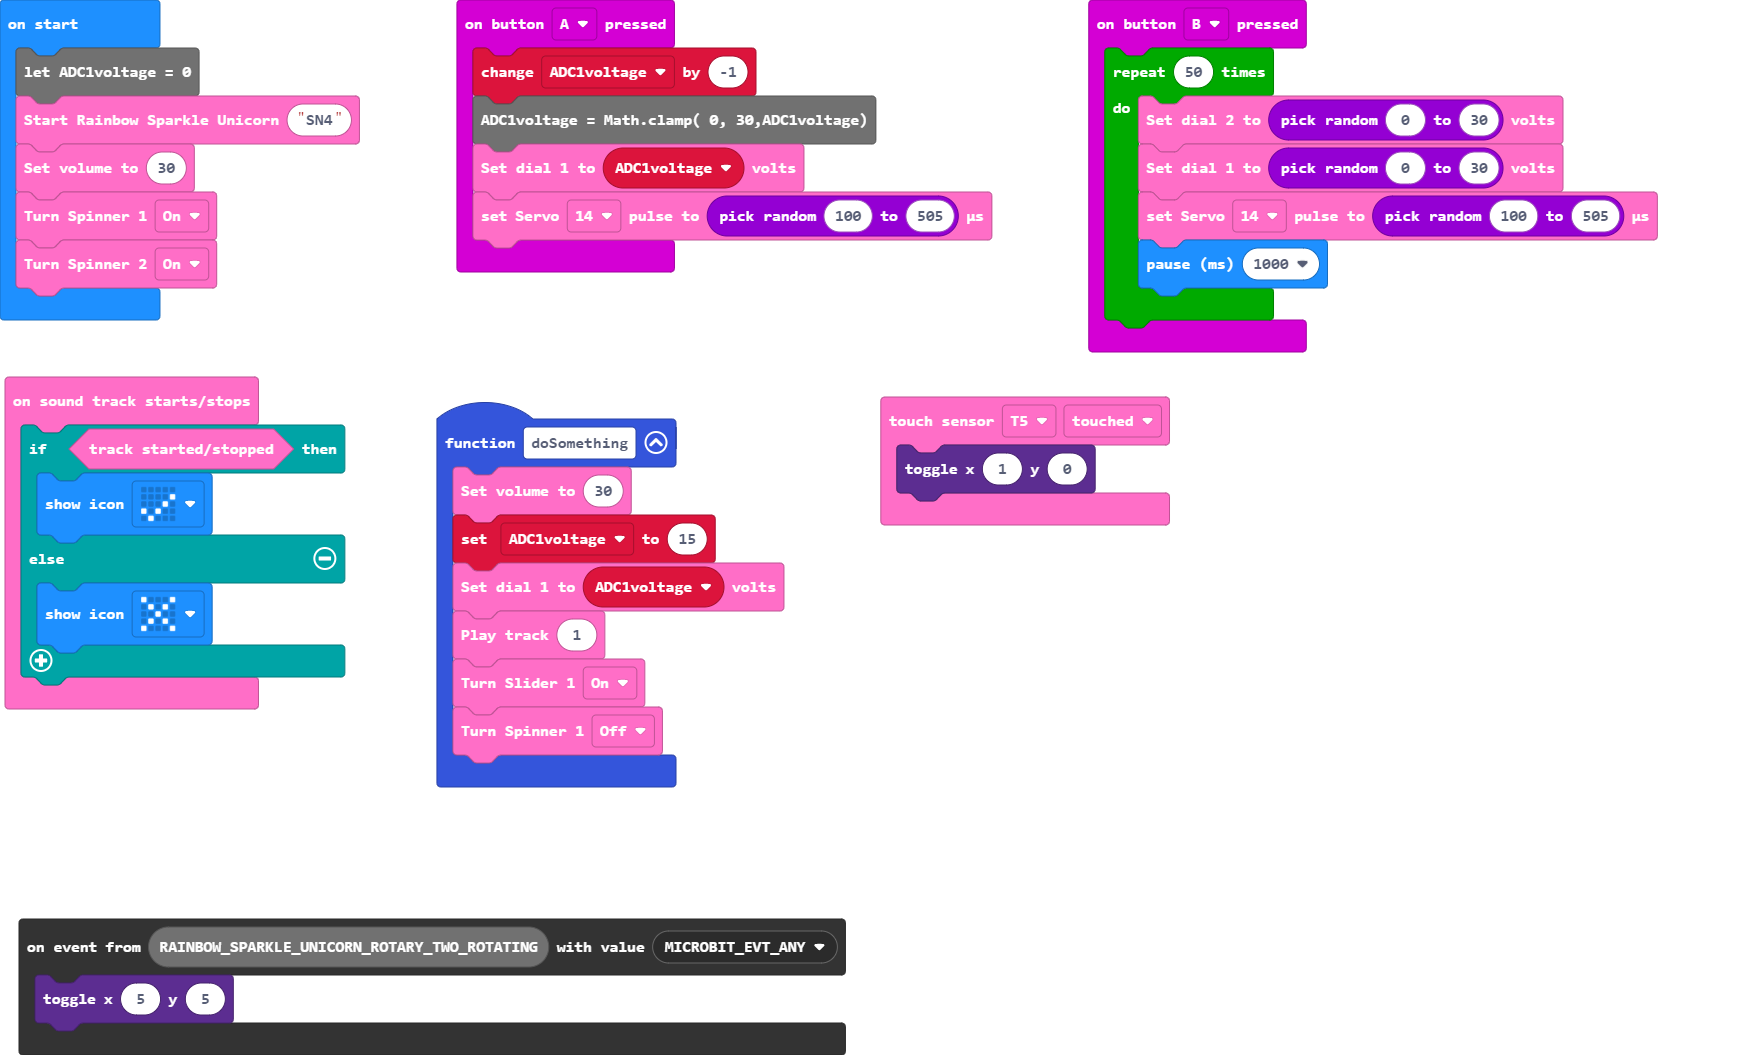
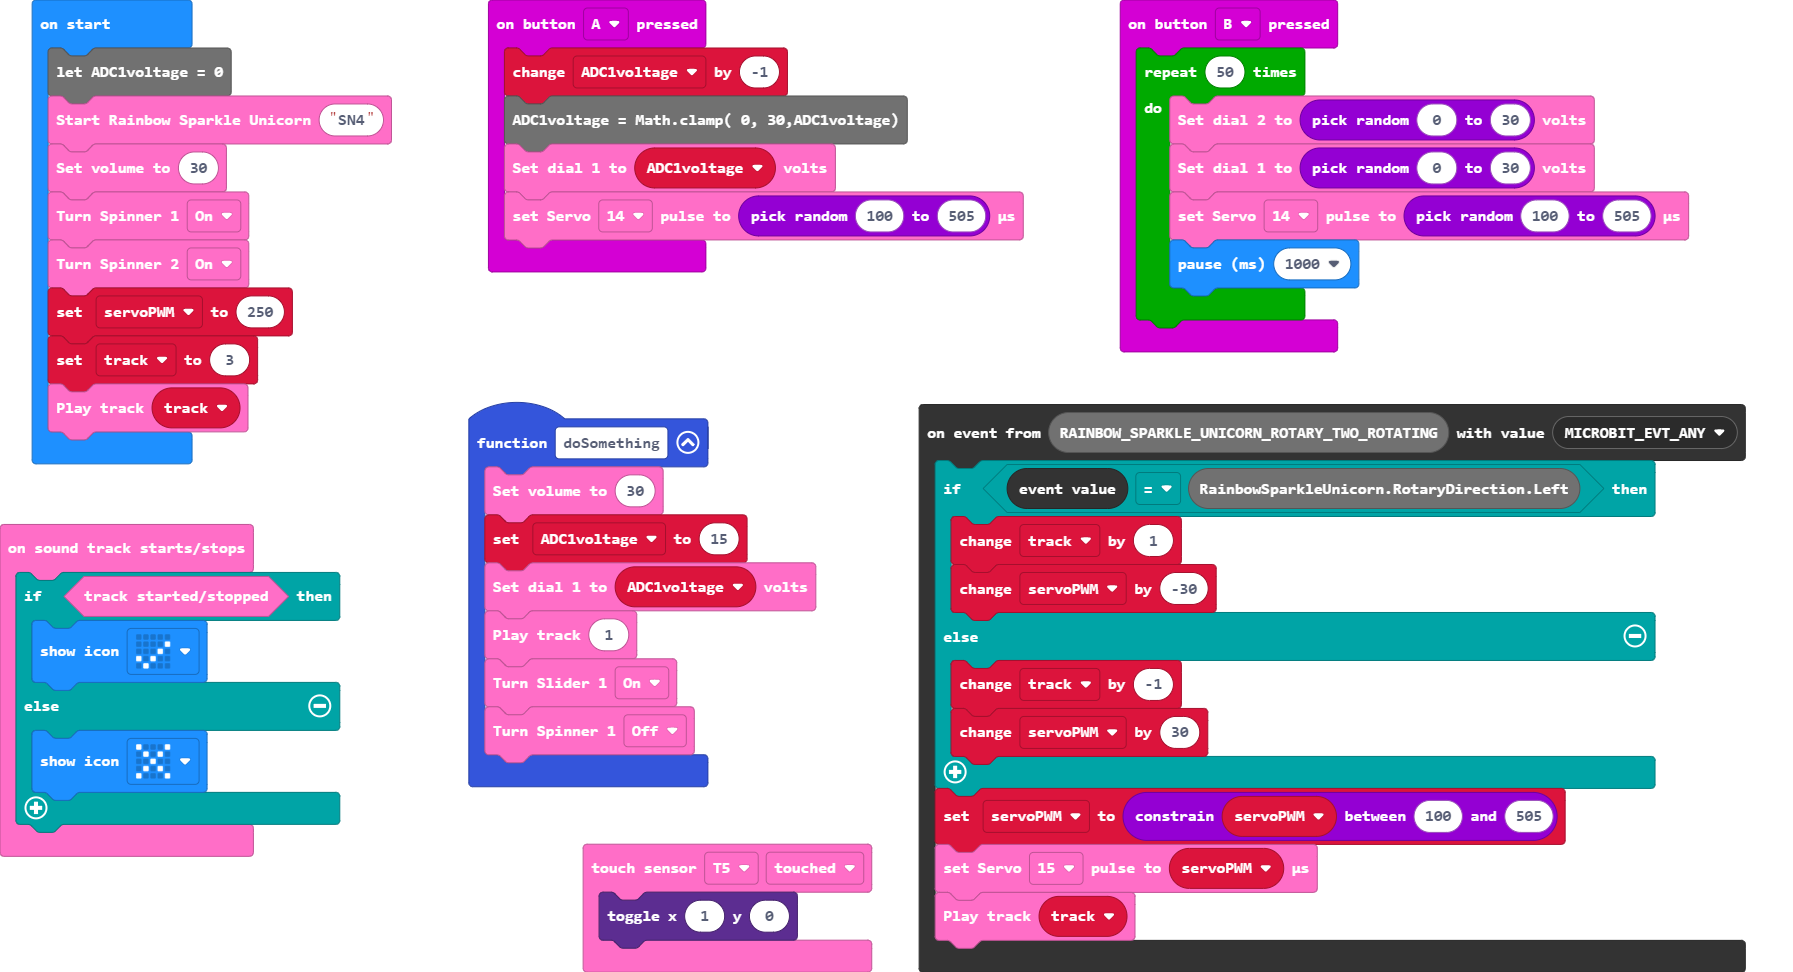
Update pxt.json, main.blocks, main.ts

diff --git a/main.ts b/main.ts
@@ -23,11 +23,18 @@ input.onButtonPressed(Button.B, function () {
         basic.pause(1000)
     }
 })
-
 control.onEvent(RAINBOW_SPARKLE_UNICORN_ROTARY_TWO_ROTATING, EventBusValue.MICROBIT_EVT_ANY, function () {
-    led.toggle(0, 0)
+    if (control.eventValue() == RainbowSparkleUnicorn.RotaryDirection.Left) {
+        track += 1
+        servoPWM += -30
+    } else {
+        track += -1
+        servoPWM += 30
+    }
+    servoPWM = Math.constrain(servoPWM, 100, 505)
+    RainbowSparkleUnicorn.setPulse(Servo.S15, servoPWM)
+    RainbowSparkleUnicorn.playTrack(track)
 })
-
 RainbowSparkleUnicorn.onBusyChange(function () {
     if (RainbowSparkleUnicorn.startStop()) {
         basic.showIcon(IconNames.Yes)
@@ -35,8 +42,13 @@ RainbowSparkleUnicorn.onBusyChange(function () {
         basic.showIcon(IconNames.No)
     }
 })
+let track = 0
+let servoPWM = 0
 let ADC1voltage = 0
 RainbowSparkleUnicorn.start("SN4")
 RainbowSparkleUnicorn.setVolume(30)
 RainbowSparkleUnicorn.turnSpinner1(OnOff.ON)
 RainbowSparkleUnicorn.turnSpinner2(OnOff.ON)
+servoPWM = 250
+track = 3
+RainbowSparkleUnicorn.playTrack(track)
